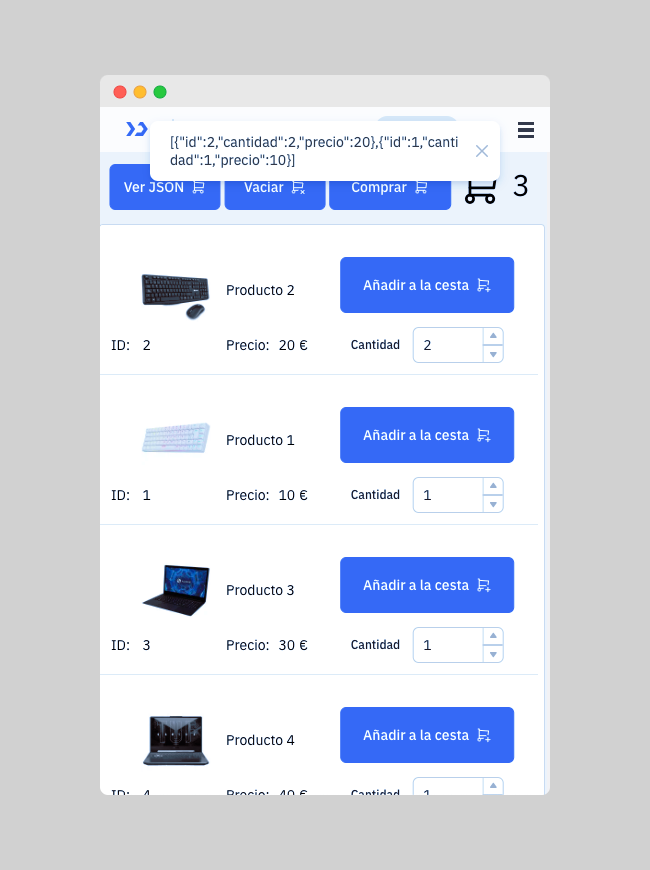
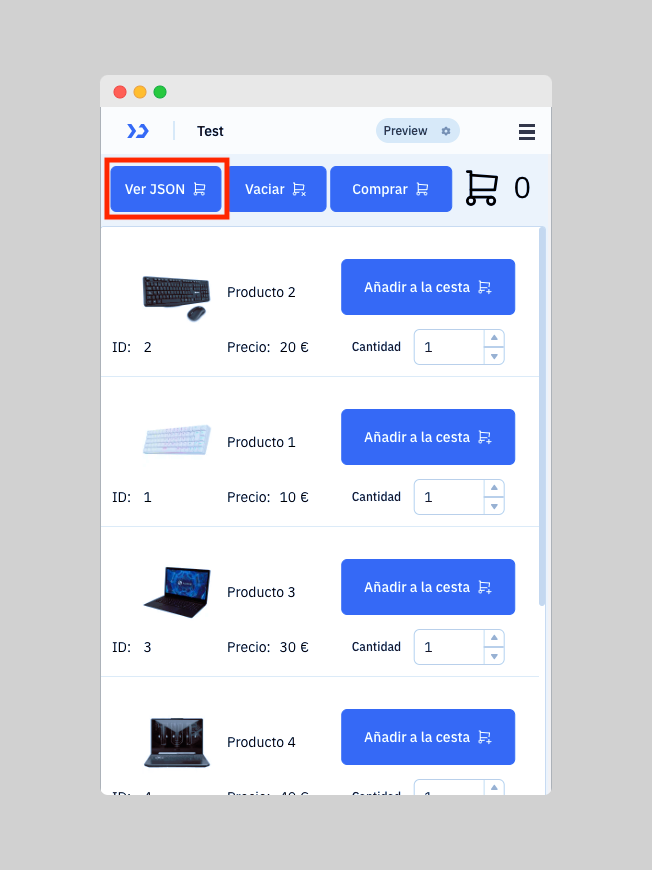
Se actualizan las imágenes

diff --git a/README.md b/README.md
@@ -8,18 +8,73 @@ TODO
 
 # Mockups de la aplicación
 
+## Listado de productos
+
+La página principal de la aplicación muestra un listado de productos disponibles
+en la base de datos.
+
 ![](images/mockup_00.png)
 
+## Añadir productos al carrito
+
+1. En la lista de productos podemos modificar la cantidad de cada tipo que queremos
+añadir al carrito.
+
+2. Para añadirlos hay que pulsar sobre el botón `Añadir a la cesta`.
+
+3. En la esquina superior derecha se muestra el número de elementos que se han
+añadido al carrito.
+
 ![](images/mockup_01.png)
+
+## Ver el estado del carrito en formato JSON
+
+El botón `Ver JSON` nos permite visualizar el estado del carrito en formato JSON.
+
+Esta funcionalidad se ha añadido únicamente para facilitar la depuración de la
+aplicación.
 
 ![](images/mockup_02.png)
 
 ![](images/mockup_03.png)
 
+## Vaciar el carrito
+
+El botón `Vaciar carrito` nos permite eliminar todos los elementos del carrito.
+
 ![](images/mockup_04.png)
 
 ![](images/mockup_05.png)
 
+## Comprar
+
+Cuando se pulsa sobre el botón `Comprar` la aplicación nos redirige a otra
+página donde se muestra el contenido del carrito y podemos tramitar el pedido.
+
 ![](images/mockup_06.png)
 
+En esta página nos aparece una tabla con el resumen de la compra y el importe total del pedido.
+
+Al pulsar sobre el botón `Tramitar pedido` el pedido se insertará en la base de datos y se vaciará el carrito.
+
 ![](images/mockup_07.png)
+
+Si el pedido se inserta con éxito nos aparecerá un mensaje de confirmación y redirigirá a la página principal.
+
+![](images/mockup_08.png)
+
+## Menú de navegación
+
+La aplicación consta de tres páginas:
+
+1. **Productos**: Listado de productos.
+2. **Comprar**: Página donde muestra el contenido del carrito y se tramita el pedido.
+3. **Pedidos:** Listado de pedidos realizados.
+
+![](images/mockup_09.png)
+
+## Listado de pedidos
+
+En esta página se muestra una tabla con todos los pedidos realizados por el cliente.
+
+![](images/mockup_10.png)
